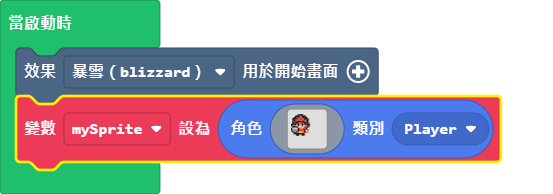
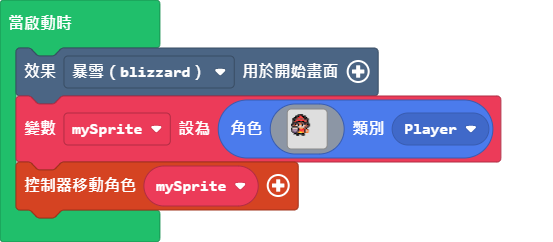
move controller

diff --git a/main.ts b/main.ts
@@ -25,3 +25,4 @@ let mySprite = sprites.create(img`
     ........................
     ........................
     `, SpriteKind.Player)
+controller.moveSprite(mySprite)
